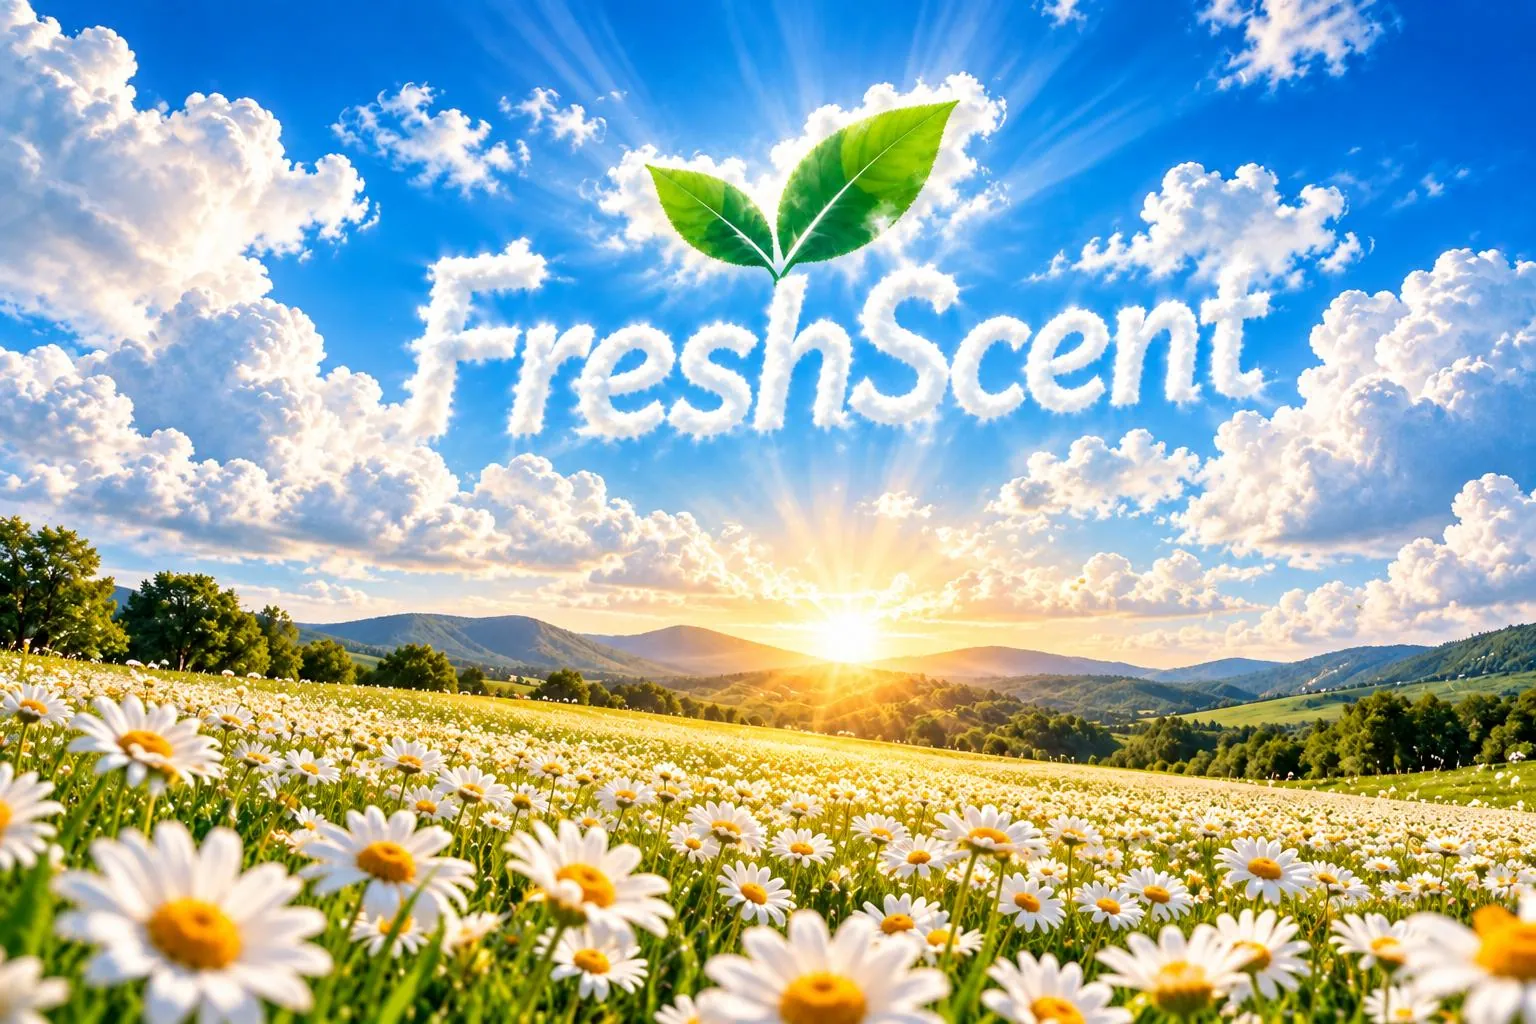
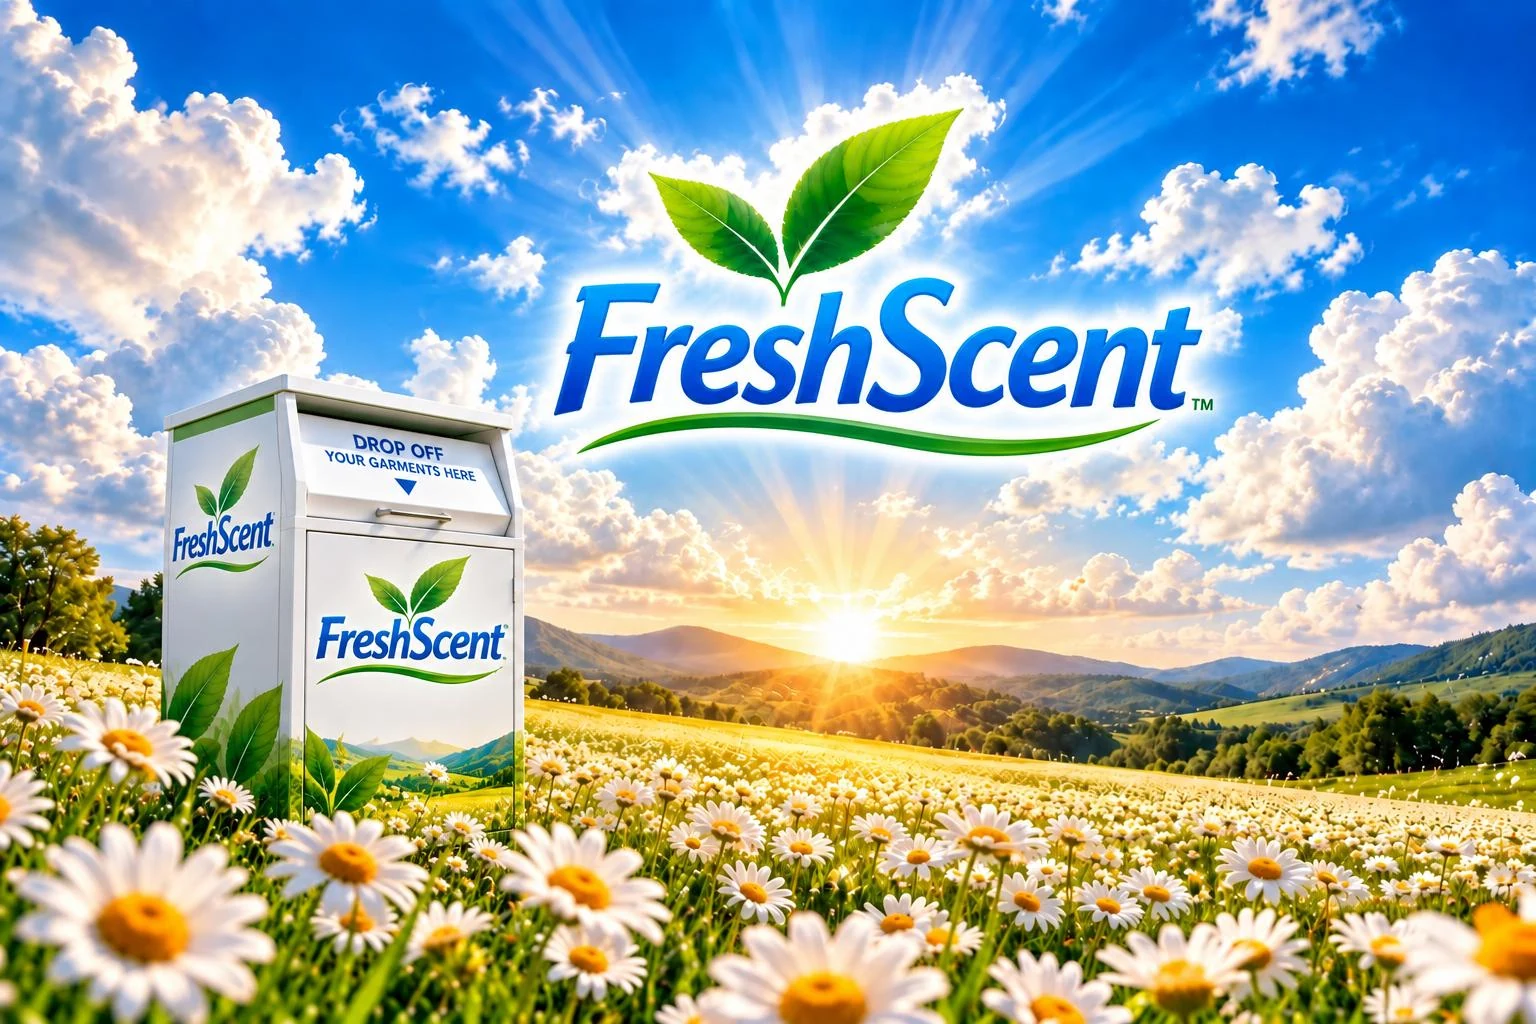
yes

diff --git a/css/style.css b/css/style.css
@@ -358,8 +358,6 @@ strong,b{font-weight:650}
 .strike{margin-top:clamp(28px,4vw,48px)}
 .strike li{padding:16px 0;border-bottom:1px solid var(--line)}
 .strike span{position:relative;font-family:var(--f-display);font-weight:400;font-size:clamp(1.15rem,1.8vw,1.6rem);line-height:1.25;display:inline}
-.strike span{background-image:linear-gradient(var(--leaf),var(--leaf));background-repeat:no-repeat;background-position:0 58%;background-size:var(--s,0%) 3px;transition:color .4s}
-.strike li.is-struck span{color:var(--muted)}
 .carousel{position:relative;border-radius:var(--r-lg);overflow:hidden;aspect-ratio:3/2;background:var(--ink)}
 .carousel__track{display:flex;width:100%;height:100%;transition:transform .55s var(--ease)}
 .carousel__slide{flex:0 0 100%;min-width:0;height:100%}

diff --git a/index.html b/index.html
@@ -69,7 +69,7 @@
     </div>
     <div class="hero__visual">
       <div class="hero__frame" id="heroFrame">
-        <img src="assets/img/hero.webp" alt="FreshScent written in clouds above a sunny meadow of daisies" width="1536" height="1024">
+        <img src="assets/img/hero.webp" alt="A FreshScent drop-off box in a sunny meadow of daisies, with FreshScent written in clouds above" width="1536" height="1024">
       </div>
       <p class="chip chip--a" data-chip><svg viewBox="0 0 24 24" aria-hidden="true"><path d="M5 19c0-8 5-13 14-14-1 9-6 14-14 14Zm0 0 7-7"/></svg>Fresh clothes. A brighter you.</p>
       <p class="chip chip--b" data-chip><svg viewBox="0 0 24 24" aria-hidden="true"><circle cx="12" cy="12" r="9"/><path d="M12 7v5l3 2"/></svg>Anytime, day or night</p>

diff --git a/js/main.js b/js/main.js
@@ -325,17 +325,5 @@
     });
   }
 
-  /* ---------------- why: strike-through ---------------- */
-  $$('#strike li').forEach(li => {
-    const span = $('span', li);
-    gsap.fromTo(span, { '--s': '0%' }, {
-      '--s': '100%', ease: 'none',
-      scrollTrigger: {
-        trigger: li, start: 'top 78%', end: 'top 52%', scrub: true,
-        onUpdate: self => li.classList.toggle('is-struck', self.progress > .95)
-      }
-    });
-  });
-
   window.addEventListener('load', () => ScrollTrigger.refresh());
 })();
